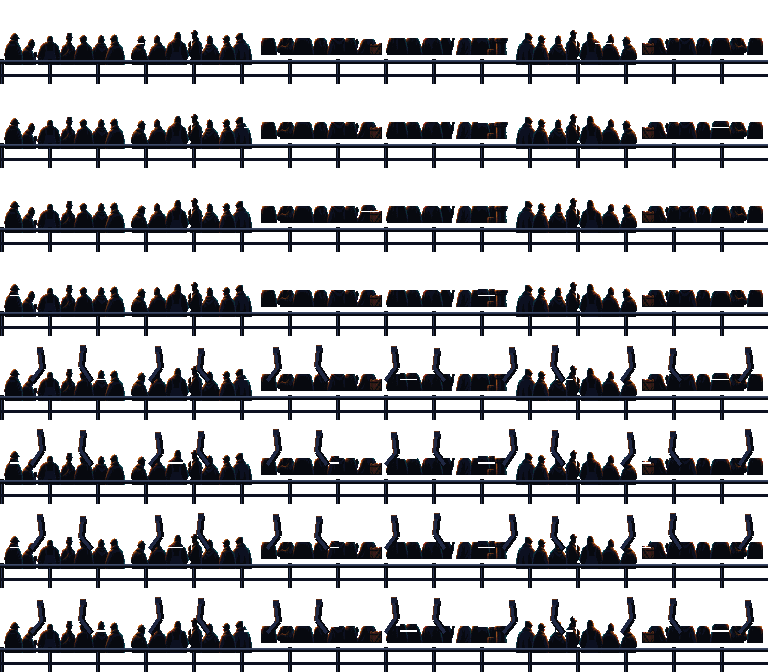
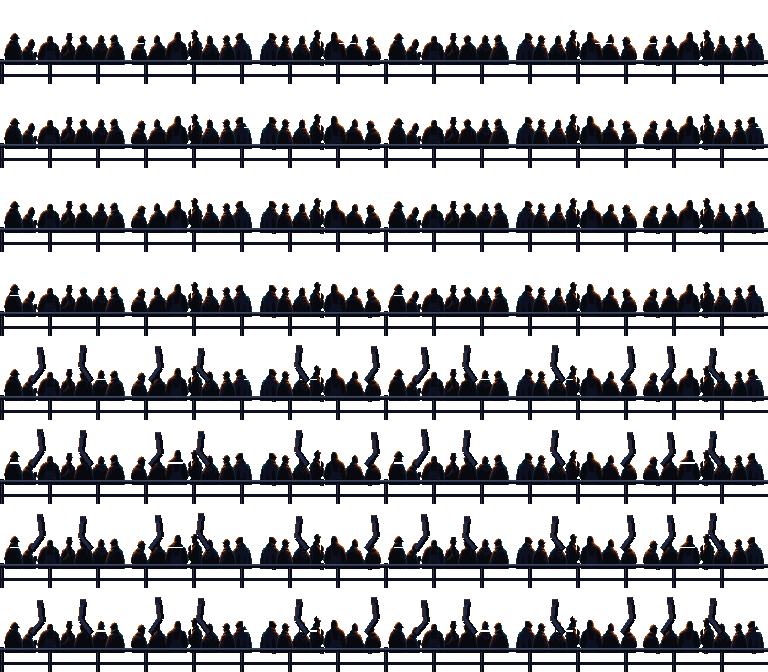
Polish: restore the crowds' cut-off heads, back text over busy art
Art Pack v2's crowd layers had three of six spectator groups (2, 3, 5)
clipped to a headless band of shoulders, in every venue and frame.
Tools/Art/repair_crowds.py rebuilds each from an intact group of the same
frame (order 0 1 4 0 4 1), keeps the original barrier in front, moves
raised arms with their group and drops arms left hanging. The stage
previews are recomposed from the layers (Tools/Art/ironart/preview.py).

The art self-test now fails if a crowd group is clipped or a layered
stage's preview stops matching its layers.

Text over busy art: a dark backing behind the training-box legend (it sat
on the Foundry's sign) and bands behind the arcade ending's lines (over
The Crown's sign), for the animated ending as for a still one.

Corrections recorded in ArtSource/Pack-v2/CORRECTIONS.md; asset spec,
tool READMEs, AGENTS.md, ADR-0020 and roadmap updated; README images
re-captured.

Claude-Session: https://claude.ai/code/session_01LvD3Rr7D8U8WWpPFd1yPmD

diff --git a/Tools/Art/repair_crowds.py b/Tools/Art/repair_crowds.py
@@ -1,0 +1,147 @@
+#!/usr/bin/env python3
+"""One-off: repairs the clipped spectator groups in Art Pack v2's crowd layers.
+
+Each crowd layer is 768 px wide: six 128 px groups side by side, with 8 frames
+of 84 px stacked vertically (asset spec §3.1). In the pack, groups 2, 3 and 5
+came out clipped in every venue: a flat band of shoulders with the heads cut
+off. The barrier in front of them (rail, rope, bench) is fine.
+
+Each clipped group is rebuilt from an intact group of the same venue and the
+same frame, so the rest and cheer animation stays in step:
+
+- **The bodies.** Above the clipped band's lower gap, the donor group is used.
+  From the gap down to the barrier, the original pixels (rail, rope) go over
+  the donor's bodies. Below that, the original barrier is unchanged.
+- **The air above the heads.** This is redone for the whole frame: each raised
+  arm or head top belongs to the group where it meets the band below, and moves
+  with that group. An arm reaching into a neighbouring group comes along whole,
+  and the clipped groups' own arms disappear, as does an arm left hanging in
+  the air without a body under it.
+
+The donors give the order 0 1 4 0 4 1, so no group stands next to itself.
+The stage previews are recomposed from the repaired layers. Layers already
+repaired are left alone, so running the script twice changes
+nothing.
+
+    python3 Tools/Art/repair_crowds.py            # repair Assets/ in place
+    python3 Tools/Art/repair_crowds.py --check    # exit 1 if a layer still needs it
+"""
+
+from __future__ import annotations
+
+import argparse
+import sys
+from pathlib import Path
+
+import numpy as np
+from PIL import Image
+from scipy import ndimage
+
+sys.path.insert(0, str(Path(__file__).resolve().parent))
+from ironart.preview import compose_previews  # noqa: E402
+
+ROOT = Path(__file__).resolve().parents[2]
+GROUPS, GROUP_W, FRAME_H, FRAMES = 6, 128, 84, 8
+DONORS = {2: 4, 3: 0, 5: 1}  # clipped group -> intact group
+# First row of the barrier that no spectator reaches (the people end above it).
+BARRIER = {
+    "Stages/Foundry/foundry_crowd.png": 66,
+    "Stages/PierNine/pier_nine_crowd.png": 66,
+    "Stages/LanternRow/lantern_row_crowd.png": 65,
+    "Stages/TheCrown/the_crown_crowd.png": 60,
+}
+HEAD_ROWS = 37  # an intact group has spectator pixels above this row
+AIR = 34        # rows above this are arms and head tops, owned by the group where they meet row AIR
+
+
+def group(frame: np.ndarray, index: int) -> np.ndarray:
+    return frame[:, index * GROUP_W:(index + 1) * GROUP_W]
+
+
+def clipped(tile: np.ndarray) -> bool:
+    return not (tile[:HEAD_ROWS, :, 3] > 0).any()
+
+
+def rebuild_air(source: np.ndarray, frame: np.ndarray, sources: list[int]) -> None:
+    """Redraws rows 0..AIR of `frame`; every piece of `source` there moves with its group."""
+    frame[:AIR] = 0
+    labels, _ = ndimage.label(source[:AIR, :, 3] > 0, structure=np.ones((3, 3)))
+    width = frame.shape[1]
+    for index, piece in enumerate(ndimage.find_objects(labels), start=1):
+        foot = np.where(labels[AIR - 1] == index)[0]
+        if not foot.size:
+            continue  # attached to nothing below
+        owner = int(foot.mean()) // GROUP_W
+        ys, xs = np.nonzero(labels[piece] == index)
+        ys, xs = ys + piece[0].start, xs + piece[1].start
+        for target, origin in enumerate(sources):
+            if origin != owner:
+                continue
+            tx = xs + (target - owner) * GROUP_W
+            inside = (tx >= 0) & (tx < width)
+            frame[ys[inside], tx[inside]] = source[ys[inside], xs[inside]]
+
+
+def repair(pixels: np.ndarray, barrier: int) -> tuple[np.ndarray, int]:
+    out = pixels.copy()
+    fixed = 0
+    for f in range(FRAMES):
+        frame = out[f * FRAME_H:(f + 1) * FRAME_H]
+        source = pixels[f * FRAME_H:(f + 1) * FRAME_H]
+        rest = pixels[(f % (FRAMES // 2)) * FRAME_H:][:FRAME_H]  # cheering arms would hide a clipped top
+        sources = list(range(GROUPS))
+        for bad, donor in DONORS.items():
+            if not clipped(group(rest, bad)) or clipped(group(rest, donor)):
+                continue
+            tile = group(source, bad)
+            opaque_rows = (tile[:, :, 3] > 0).any(1)
+            band = np.where(opaque_rows[AIR:barrier])[0] + AIR
+            gap = next(y for y in range(int(band.min()), barrier) if not opaque_rows[y])
+            result = group(source, donor).copy()
+            keep = tile[gap:barrier, :, 3] > 0
+            result[gap:barrier][keep] = tile[gap:barrier][keep]
+            result[barrier:] = tile[barrier:]
+            group(frame, bad)[:] = result
+            sources[bad] = donor
+            fixed += 1
+        if sources != list(range(GROUPS)):
+            rebuild_air(source, frame, sources)
+            drop_stray_arms(frame, barrier)
+    return out, fixed
+
+
+def drop_stray_arms(frame: np.ndarray, barrier: int) -> None:
+    """Clears raised arms left hanging: an arm drawn at a group's edge that
+    belonged to the clipped neighbour's (cut-off) body, and now reaches no one."""
+    labels, _ = ndimage.label(frame[:barrier, :, 3] > 0, structure=np.ones((3, 3)))
+    for index, piece in enumerate(ndimage.find_objects(labels), start=1):
+        if piece[0].start < AIR and piece[0].stop <= HEAD_ROWS + 4:
+            frame[:barrier][labels == index] = 0
+
+
+def main() -> int:
+    parser = argparse.ArgumentParser(description=__doc__, formatter_class=argparse.RawDescriptionHelpFormatter)
+    parser.add_argument("--assets", type=Path, default=ROOT / "Assets")
+    parser.add_argument("--check", action="store_true", help="report only; exit 1 if any group is clipped")
+    args = parser.parse_args()
+    pending = 0
+    for relative, barrier in BARRIER.items():
+        path = args.assets / relative
+        pixels = np.array(Image.open(path).convert("RGBA"))
+        if pixels.shape[:2] != (FRAME_H * FRAMES, GROUP_W * GROUPS):
+            print(f"{relative}: unexpected size {pixels.shape[1]}x{pixels.shape[0]}", file=sys.stderr)
+            return 2
+        repaired, fixed = repair(pixels, barrier)
+        pending += fixed
+        if fixed and not args.check:
+            Image.fromarray(repaired, "RGBA").save(path, optimize=True)
+        state = "clipped" if args.check or not fixed else "repaired"
+        print(f"{relative}: {fixed} group frame(s) {state}")
+    if pending and not args.check:
+        for image in compose_previews(args.assets):
+            print(f"{image}: preview recomposed")
+    return 1 if args.check and pending else 0
+
+
+if __name__ == "__main__":
+    sys.exit(main())

diff --git a/Tools/Art/ironart/preview.py b/Tools/Art/ironart/preview.py
@@ -1,0 +1,64 @@
+"""The 640 x 360 preview of a layered stage: its layers composed at the middle
+camera position, as StageView draws them (asset spec §3.1).
+
+The stage select, the title and the arcade ending show the preview, so it must
+follow the layers: `selftest.py` checks it, `compose_previews` rewrites it.
+"""
+
+from __future__ import annotations
+
+import json
+import math
+from pathlib import Path
+
+from PIL import Image
+
+SCREEN_W, SCREEN_H = 640, 360
+
+
+def _paste(out: Image.Image, image: Image.Image, x: int, y: int) -> None:
+    left = max(0, -x)
+    right = min(image.width, SCREEN_W - x)
+    if right > left:
+        out.alpha_composite(image.crop((left, 0, right, image.height)), (x + left, y))
+
+
+def compose(assets: Path, stage: dict) -> Image.Image:
+    """The preview of a layered stage: frame 0 of every layer, no drift, camera at the middle."""
+    camera = (stage["width"] - SCREEN_W) // 2
+    out = Image.new("RGBA", (SCREEN_W, SCREEN_H), (0, 0, 0, 255))
+    layers = stage["layers"]
+    for layer in [l for l in layers if not l.get("front")] + [l for l in layers if l.get("front")]:
+        image = Image.open(assets / layer["image"]).convert("RGBA")
+        frame_h = image.height // layer.get("frames", 1)
+        image = image.crop((0, 0, image.width, frame_h))
+        x = math.floor(layer.get("x", 0) - camera * layer.get("parallax", 1.0))
+        y = layer.get("y", 0)
+        if layer.get("drift"):  # repeats horizontally
+            x = int(math.fmod(x, image.width))
+            if x > 0:
+                x -= image.width
+            for at in range(x, SCREEN_W, image.width):
+                _paste(out, image, at, y)
+        else:
+            _paste(out, image, x, y)
+    return out.convert("RGB")
+
+
+def layered_stages(assets: Path) -> list[dict]:
+    stages = json.loads((assets / "Data" / "stages.json").read_text(encoding="utf-8"))["stages"]
+    return [s for s in stages if s.get("layers")]
+
+
+def compose_previews(assets: Path) -> list[str]:
+    """Rewrites every layered stage's preview; returns the ones that changed."""
+    import numpy as np
+
+    changed = []
+    for stage in layered_stages(assets):
+        path = assets / stage["image"]
+        preview = compose(assets, stage)
+        if not path.exists() or not np.array_equal(np.array(Image.open(path).convert("RGB")), np.array(preview)):
+            preview.save(path, optimize=True)
+            changed.append(stage["image"])
+    return changed

diff --git a/Tools/Art/selftest.py b/Tools/Art/selftest.py
@@ -116,11 +116,41 @@ def check_round_trip(work: Path) -> list[str]:
     return errors
 
 
+def check_crowds() -> list[str]:
+    """Every spectator group in the crowd layers has its heads (repair_crowds.py)."""
+    import numpy as np
+    from PIL import Image
+
+    import repair_crowds
+
+    errors = []
+    for relative, barrier in repair_crowds.BARRIER.items():
+        pixels = np.array(Image.open(ASSETS / relative).convert("RGBA"))
+        if repair_crowds.repair(pixels, barrier)[1]:
+            errors.append(f"{relative}: clipped spectator groups (run Tools/Art/repair_crowds.py)")
+    return errors
+
+
+def check_previews() -> list[str]:
+    """Every layered stage's preview is its layers composed at the middle camera."""
+    import numpy as np
+    from PIL import Image
+
+    from ironart import preview
+
+    errors = []
+    for stage in preview.layered_stages(ASSETS):
+        committed = np.array(Image.open(ASSETS / stage["image"]).convert("RGB"))
+        if not np.array_equal(committed, np.array(preview.compose(ASSETS, stage))):
+            errors.append(f"{stage['image']}: preview differs from its layers (see ironart/preview.py)")
+    return errors
+
+
 def main() -> int:
     with tempfile.TemporaryDirectory() as tmp:
         work = Path(tmp)
         errors = (check_generated(work / "generated") + check_sources(work / "sources")
-                  + check_round_trip(work / "roundtrip"))
+                  + check_round_trip(work / "roundtrip") + check_crowds() + check_previews())
     for e in errors:
         print("FAIL: " + e)
     print("art selftest: " + ("FAILED" if errors else "ok"))

diff --git a/Source/Runtime/Game/ArcadeScene.cpp b/Source/Runtime/Game/ArcadeScene.cpp
@@ -178,13 +178,14 @@ void ArcadeScene::drawEnding(SDL_Renderer* r) const {
     if (const Texture* picture = views_[0]->ending()) {
         // The fighter's own ending picture: it is the whole scene.
         SDL_RenderTexture(r, picture->handle.get(), nullptr, &all);
-        ui::fill(r, 0, 0, w, 96, {7, 9, 15, 150});  // bands for the text
-        ui::fill(r, 0, 292, w, 68, {7, 9, 15, 150});
     } else {
         SDL_RenderTexture(r, stage.image->handle.get(), nullptr, &all);
-        ui::dim(r, w, services_.height, 150);
-        drawChampion(r, *views_[0], w / 2);
+        ui::dim(r, w, services_.height, 120);
     }
+    // Bands for the text: The Crown's sign sits right behind the title.
+    ui::fill(r, 0, 0, w, 96, {7, 9, 15, 150});
+    ui::fill(r, 0, 292, w, 68, {7, 9, 15, 150});
+    if (!views_[0]->ending()) drawChampion(r, *views_[0], w / 2);
     const auto& name = views_[0]->definition().displayName;
     data.large().draw(r, name, w / 2, 40, ui::kWhite, Align::Centre);
     data.large().draw(r, "TAKES THE CROWN", w / 2, 70, ui::kBrassLight, Align::Centre);

diff --git a/Source/Runtime/Game/TrainingOverlay.cpp b/Source/Runtime/Game/TrainingOverlay.cpp
@@ -1,6 +1,9 @@
 #include "Game/TrainingOverlay.h"
 
+#include "Render/Ui.h"
+
 #include <cstdio>
+#include <string_view>
 
 namespace iron {
 namespace {
@@ -94,7 +97,11 @@ void TrainingOverlay::draw(SDL_Renderer* r, const sim::Round& round,
                    true);
     }
     font_.draw(r, "ADVANTAGE P1 " + advantage_, 320, 300, {242, 176, 78, 255}, Align::Centre, true);
-    font_.draw(r, "F3 BOXES  HURT  HIT  GRAB  PUSH", 320, 60, {138, 147, 168, 255}, Align::Centre, true);
+    // The legend sits over the venue's upper band (the Foundry's sign, say): give it a backing.
+    constexpr std::string_view kLegend = "F3 BOXES  HURT  HIT  GRAB  PUSH";
+    const float legendW = static_cast<float>(font_.measure(kLegend));
+    ui::fill(r, 320 - legendW / 2 - 4, 57, legendW + 8, 14, {7, 9, 15, 170});
+    font_.draw(r, kLegend, 320, 60, {138, 147, 168, 255}, Align::Centre, true);
 }
 
 } // namespace iron

diff --git a/ArtSource/README.md b/ArtSource/README.md
@@ -20,7 +20,7 @@ Editable sources of externally authored art. The game never reads this folder; `
 
 3. Build, then check in `IronRing -training -stage <id>` (F3 shows boxes). `python3 Tools/Art/selftest.py` fails if `Assets/` and these frames disagree.
 
-Stage layers, previews, portraits (32 × 32 HUD, 48 × 48 select), the title logo and the menu backdrop are final images; edit them directly in `Assets/`. Stage layer sizes follow the width rule in [asset spec §3.1](../docs/art/asset-spec.md#31-layered-stages); the build checks it.
+Stage layers, previews, portraits (32 × 32 HUD, 48 × 48 select), the title logo and the menu backdrop are final images; edit them directly in `Assets/`. Stage layer sizes follow the width rule in [asset spec §3.1](../docs/art/asset-spec.md#31-layered-stages); the build checks it. A stage's 640 × 360 preview is composed from its layers (`Tools/Art/ironart/preview.py`); recompose it after editing a layer, or the art self-test fails.
 
 ## Art Pack v1
 
@@ -28,4 +28,4 @@ Delivered 2026-10-30, generated with an image model from [docs/art/generation-pr
 
 ## Art Pack v2
 
-Delivered 2026-10-31 against the [vertical-slice art brief](../docs/art/vertical-slice-art-brief.md), under the project's zlib licence. It replaces both fighters' frame sets (the brief's corrections, a dark outline pass, six champion frames each), adds select portraits, makes all four venues layered and final (The Foundry replaces its procedural placeholder), and supplies the title logo and menu backdrop. Adopted as delivered ([ADR-0020](../docs/adr/0020-adopting-art-pack-v2.md)); the arcade ending animates the champion, so the pack's still ending pictures are kept in `Pack-v2/Endings/` only. Generation originals (about 44 MB) and the pack's previews and rebuild scripts stay outside the repository.
+Delivered 2026-10-31 against the [vertical-slice art brief](../docs/art/vertical-slice-art-brief.md), under the project's zlib licence. It replaces both fighters' frame sets (the brief's corrections, a dark outline pass, six champion frames each), adds select portraits, makes all four venues layered and final (The Foundry replaces its procedural placeholder), and supplies the title logo and menu backdrop. Adopted as delivered ([ADR-0020](../docs/adr/0020-adopting-art-pack-v2.md)), with one later correction: in every crowd layer, three of the six spectator groups were cut off at the head; `Tools/Art/repair_crowds.py` rebuilt them from the intact groups of the same frame and recomposed the previews ([Pack-v2/CORRECTIONS.md](Pack-v2/CORRECTIONS.md)); the arcade ending animates the champion, so the pack's still ending pictures are kept in `Pack-v2/Endings/` only. Generation originals (about 44 MB) and the pack's previews and rebuild scripts stay outside the repository.

diff --git a/AGENTS.md b/AGENTS.md
@@ -53,8 +53,8 @@ The launcher ↔ engine API (`Public/IronRing/Player.h`) is **C only**: plain C 
 - Never commit franchise material (Fatal Fury or otherwise) — reference images stay outside the repository.
 - Prefer formats SDL can load without extra libraries: PNG, WAV, OGG, FLAC.
 - Art follows [docs/art/asset-spec.md](docs/art/asset-spec.md). Two kinds, listed in `Tools/Art/ironart/ownership.py`:
-  - **External** (fighters, portraits, stages): edit the sources in `ArtSource/` and repack with `Tools/Art/import_art.py` ([ArtSource/README.md](ArtSource/README.md)). Never edit an atlas directly.
-  - **Procedural** (palette, effects, fonts, icon, title logo and menu backdrop): change `Tools/Art/ironart/`, run `python3 Tools/Art/generate.py`, commit code and assets together.
+  - **External** (fighters, portraits, stages, title logo, menu backdrop): fighter frames live in `ArtSource/` and are repacked with `Tools/Art/import_art.py`; never edit an atlas directly. Stage layers and the other pictures are edited in `Assets/`; recompose a stage's preview after changing a layer ([ArtSource/README.md](ArtSource/README.md)).
+  - **Procedural** (palette, effects, fonts, HUD layout, icon): change `Tools/Art/ironart/`, run `python3 Tools/Art/generate.py`, commit code and assets together.
   - `python3 Tools/Art/selftest.py` (CI job *Art and audio tools*) fails when either kind drifts from its source.
 - Audio is generated: change `Tools/Audio/chiptune/` and run `python3 Tools/Audio/generate_audio.py`; never edit the WAV/OGG files ([docs/audio.md](docs/audio.md)). `--check` runs in CI. A sound id the game plays must also be in `GameSettings.json → sounds` and `content::kSounds`; announcer lines in `→ voice` and `content::kVoiceLines`; a stage's theme in `stages.json → music`.
 - Fighter gameplay data lives in `<id>.fighter.json` ([ADR-0010](docs/adr/0010-fighter-content-format.md)). Animation lengths must match frame data; AssetPacker fails the build when they don't. Retime the animation in the same change as the move.

diff --git a/Tools/Art/README.md b/Tools/Art/README.md
@@ -12,6 +12,7 @@ pip install -r Tools/Art/requirements.txt        # pinned Pillow, numpy, scipy (
 | `import_art.py` | Brings in art made elsewhere: `refs` exports pose references, `fighter` imports frames into an atlas, `image` fits a stage or portrait. |
 | `selftest.py` | Checks that procedural assets match `generate.py`, external atlases match their `ArtSource/` frames, and export→import round-trips losslessly. Runs in CI. |
 | `review_frames.py` | Measures frames against the animation rules (asset spec §2.6) and writes review sheets with boxes. Findings are notes, not errors. |
+| `repair_crowds.py` | One-off: rebuilds the clipped spectator groups in Art Pack v2's crowd layers from intact ones and recomposes the stage previews; `--check` reports only. The self-test fails if a group is clipped again. |
 | `adopt_art_pack.py` | One-off: re-registers Art Pack v1's raw sprites into `ArtSource/` at one scale per fighter ([ADR-0012](../../docs/adr/0012-adopting-external-art.md)). |
 
 The contract every asset follows (sizes, frame names, pivots, timing, layout) is [docs/art/asset-spec.md](../../docs/art/asset-spec.md). Prompts for image generators are in [docs/art/generation-prompts.md](../../docs/art/generation-prompts.md). Background: [ADR-0011](../../docs/adr/0011-procedural-interim-art.md).
@@ -36,6 +37,7 @@ Fighters, stages (The Foundry included) and the title logo and menu backdrop are
 | `effects.py`, `font.py`, `icon.py` | Hit effects, the two bitmap fonts, the app icon. |
 | `atlas.py` | Shared trimming, shelf packing and atlas JSON writing (also used by the importer). |
 | `importer.py` | Background keying, consistent downscaling, palette snapping, fringe cleanup, reference export. |
+| `preview.py` | Composes a layered stage's 640 × 360 preview from its layers, as the game draws them; the self-test compares it with the committed preview. |
 | `ownership.py` | Which `Assets/` folders and files are externally authored, and where their sources live. |
 
 ## Replacing art with outside art

diff --git a/ArtSource/Pack-v2/CORRECTIONS.md b/ArtSource/Pack-v2/CORRECTIONS.md
@@ -1,0 +1,19 @@
+# Corrections to Art Pack v2
+
+Changes made in the repository after adoption ([ADR-0020](../../docs/adr/0020-adopting-art-pack-v2.md)). For a later art round, these are also notes on what to avoid.
+
+## Crowds cut off at the head (2026-10-31)
+
+**Found in play.** All four crowd layers (`Assets/Stages/<Venue>/<venue>_crowd.png`) are 768 × 672: six 128 px spectator groups side by side and 8 frames of 84 px. In every venue and every frame, groups 2, 3 and 5 (counting from 0) were a flat band of shoulders with no heads. Their tops sat at row 38, where the intact groups' heads start at rows 30–34. At The Crown the clipped groups left an empty bench. In the cheer frames, the raised arms of those groups hung over bodies that had no heads. The barrier in front of them (rail, rope, bench) was intact. The pack's validation checks sizes and frame counts, not content, so it didn't catch this.
+
+**Repair.** `Tools/Art/repair_crowds.py` fixes it:
+
+- Each clipped group is rebuilt from an intact group of the same venue and the same frame. The donor map is 2 ← 4, 3 ← 0 and 5 ← 1, so the row reads 0 1 4 0 4 1 and no group stands next to itself.
+- The original barrier stays in front of the donor bodies.
+- Raised arms and head tops move with the group they belong to.
+- Arms left hanging without a body under them are removed.
+- The four stage previews are recomposed from the repaired layers.
+
+**Guarded.** `Tools/Art/selftest.py` fails if any group is clipped again, or if a preview stops matching its layers.
+
+**For the next pack.** Every spectator should show head and shoulders above the barrier in every frame, along the whole width (asset spec §3.1). The crowd repeats three distinct groups. Six distinct groups per venue would read better at the 0.8 parallax.

diff --git a/docs/art/asset-spec.md b/docs/art/asset-spec.md
@@ -196,13 +196,13 @@ A stage can be wider than the screen and drawn as layers that scroll at differen
 - the HUD bands stay calm;
 - spectators stay behind the barrier.
 
-The `image` field is a 640 × 360 preview, the layers composed at the centre; it is used on the stage select and the title.
+The `image` field is a 640 × 360 preview: frame 0 of every layer, composed at the middle camera position without drift (`Tools/Art/ironart/preview.py`). It is used on the stage select, the title and the arcade ending. After changing a layer, recompose it; the art self-test fails while preview and layers disagree.
 
 Suggested stack, back to front:
 1. back wall or sky (0.2–0.3);
 2. structures (0.5–0.6);
 3. optional drifting haze;
-4. crowd and barrier (0.8; 8 frames, about 84 px tall);
+4. crowd and barrier (0.8; 8 frames, about 84 px tall). Every spectator shows head and shoulders above the barrier, in every frame and along the whole width: no group may be cut off at the top;
 5. floor (1.0, from about y 262);
 6. optional foreground frame (1.2–1.3, `front`).
 

diff --git a/ROADMAP.md b/ROADMAP.md
@@ -69,6 +69,8 @@ Goal: two characters that feel good in local play on one stage. Target platforms
   - ✅ Engine ready for it: champion animations, optional select portraits and ending pictures, procedural pose references for new frames (`import_art.py refs`)
   - ✅ Art Pack v2 delivered, reviewed and imported: corrected frames and six champion frames per fighter, select portraits, four layered venues on an 800 px world, title logo and menu backdrop; animated champion endings ([ADR-0020](docs/adr/0020-adopting-art-pack-v2.md))
   - ⬜ Polish pass: a full playthrough at release quality (both fighters, every venue, the arcade loop), fixing what it turns up
+    - ✅ Crowds: the spectator groups the pack cut off at the head are rebuilt from intact ones, in every venue and frame; stage previews recomposed; the art self-test guards both ([ADR-0020](docs/adr/0020-adopting-art-pack-v2.md))
+    - ✅ Text over busy art: a backing behind the training-box legend, dark bands behind the arcade ending's lines
 
 ## M3 — Roster and world
 

diff --git a/docs/adr/0020-adopting-art-pack-v2.md b/docs/adr/0020-adopting-art-pack-v2.md
@@ -34,6 +34,7 @@ Review against the brief and in the game found:
 - Every venue is layered, and the four share one stack contract (asset spec §3.1). No flat stages remain in the game, though the engine still supports them.
 - The procedural art now owns effects, fonts, the HUD layout, the icon and the palette files only.
 - The simulation is untouched, so the golden checksum holds.
+- *Later correction (polish pass):* three of the six spectator groups in every crowd layer were cut off at the head. `Tools/Art/repair_crowds.py` rebuilt them from the intact groups, and the art self-test now checks the crowds and that each preview matches its layers ([CORRECTIONS.md](../../ArtSource/Pack-v2/CORRECTIONS.md)).
 - The crouch hurtboxes stay at Dee 92 and Bram 100, the values from ADR-0012. The brief quoted the older 88 and 92; the pack drew to the real values.
 
 ## Alternatives considered
